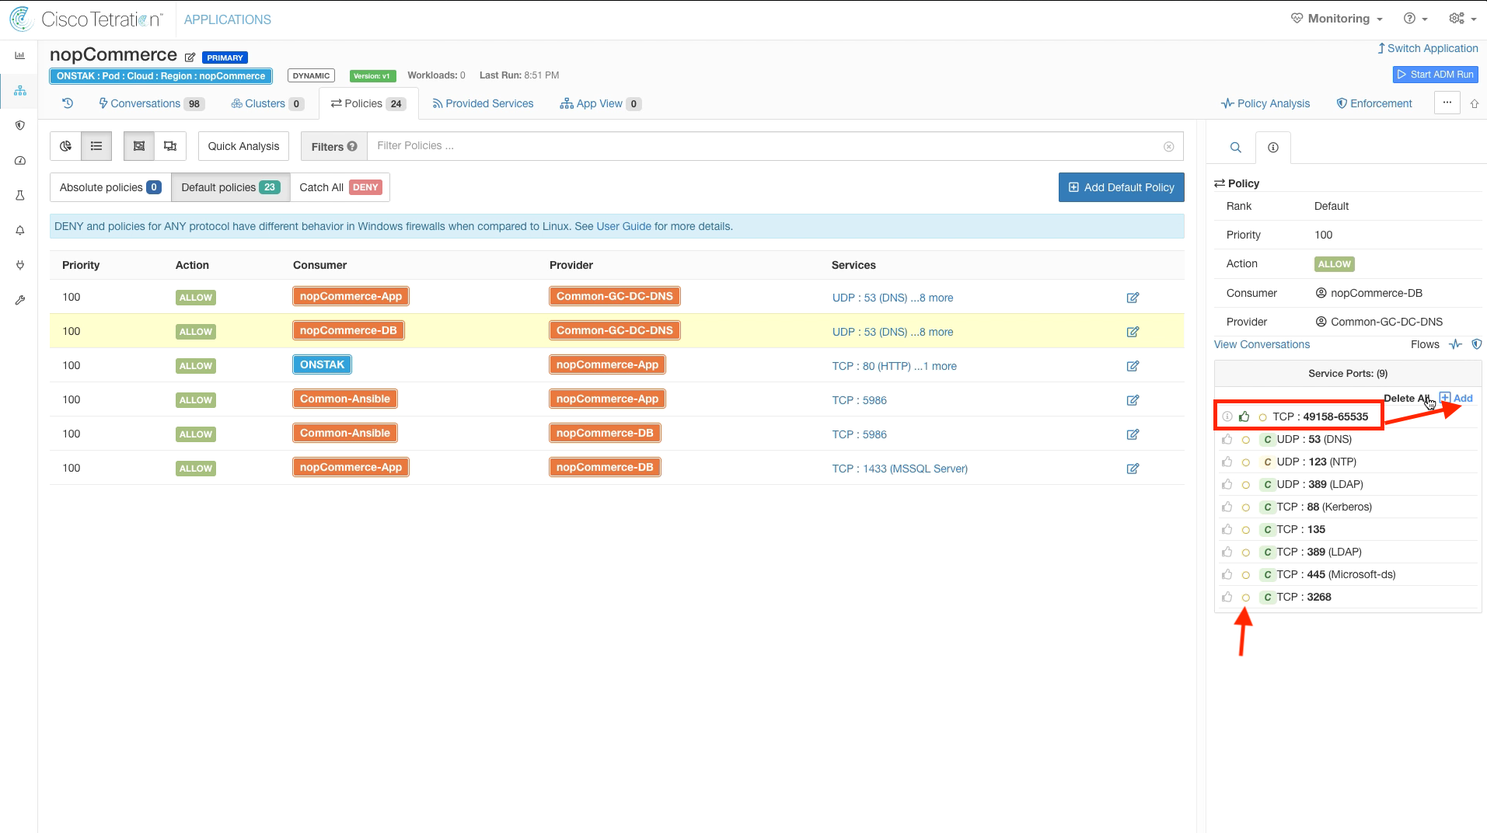
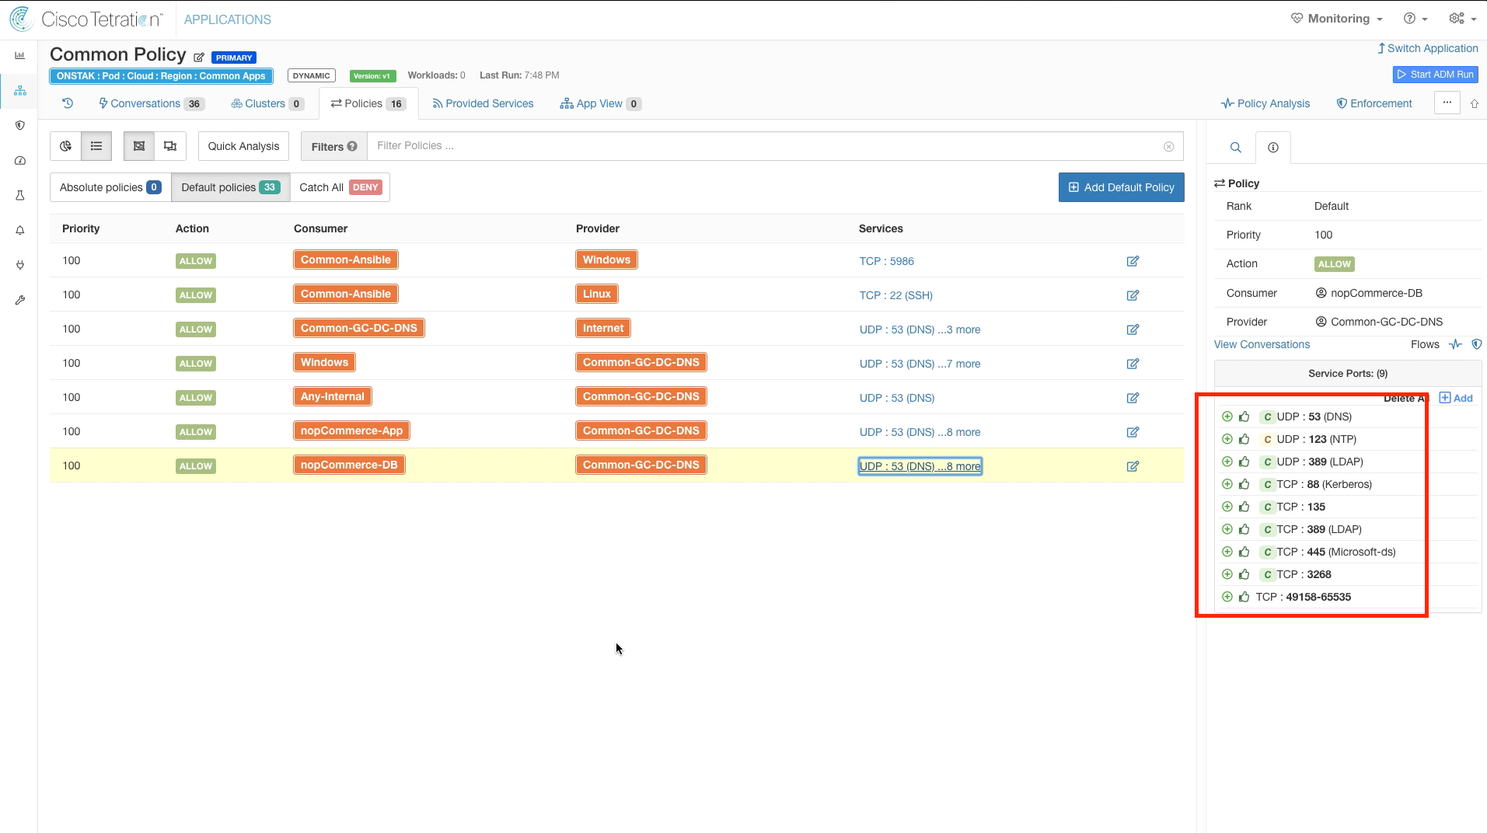
module 14 readme update

Changed region(s): [[0.0308, 0.2463, 0.9869, 0.7696], [0.0308, 0.0616, 0.185, 0.0924]]

diff --git a/labguide/module14/README.md b/labguide/module14/README.md
@@ -7,46 +7,47 @@
 
 
 ### Steps for this Module  
-<a href="#step-001" style="font-weight:bold">Step 001</a>  
-<a href="#step-002" style="font-weight:bold">Step 002</a>  
-<a href="#step-003" style="font-weight:bold">Step 003</a>  
-<a href="#step-004" style="font-weight:bold">Step 004</a>  
-<a href="#step-005" style="font-weight:bold">Step 005</a>  
-<a href="#step-006" style="font-weight:bold">Step 006</a>  
-<a href="#step-007" style="font-weight:bold">Step 007</a>  
-<a href="#step-008" style="font-weight:bold">Step 008</a>  
-<a href="#step-009" style="font-weight:bold">Step 009</a>  
-<a href="#step-010" style="font-weight:bold">Step 010</a>  
-<a href="#step-011" style="font-weight:bold">Step 011</a>  
-<a href="#step-012" style="font-weight:bold">Step 012</a>  
-<a href="#step-013" style="font-weight:bold">Step 013</a>  
-<a href="#step-014" style="font-weight:bold">Step 014</a>  
-<a href="#step-015" style="font-weight:bold">Step 015</a>  
-<a href="#step-016" style="font-weight:bold">Step 016</a>  
-<a href="#step-017" style="font-weight:bold">Step 017</a>  
-<a href="#step-018" style="font-weight:bold">Step 018</a>  
-<a href="#step-019" style="font-weight:bold">Step 019</a>  
-<a href="#step-020" style="font-weight:bold">Step 020</a>  
-<a href="#step-021" style="font-weight:bold">Step 021</a>  
-<a href="#step-022" style="font-weight:bold">Step 022</a>  
-<a href="#step-023" style="font-weight:bold">Step 023</a>  
-<a href="#step-024" style="font-weight:bold">Step 024</a>  
-<a href="#step-025" style="font-weight:bold">Step 025</a>  
-<a href="#step-026" style="font-weight:bold">Step 026</a>  
-<a href="#step-027" style="font-weight:bold">Step 027</a>  
-<a href="#step-028" style="font-weight:bold">Step 028</a>  
-<a href="#step-029" style="font-weight:bold">Step 029</a>  
-<a href="#step-030" style="font-weight:bold">Step 030</a>  
-<a href="#step-031" style="font-weight:bold">Step 031</a>  
-<a href="#step-032" style="font-weight:bold">Step 032</a>  
-<a href="#step-033" style="font-weight:bold">Step 033</a>  
-<a href="#step-034" style="font-weight:bold">Step 034</a>  
-<a href="#step-035" style="font-weight:bold">Step 035</a>  
-<a href="#step-036" style="font-weight:bold">Step 036</a>  
+<a href="#step-001" style="font-weight:bold">Step 001 - Navigate to Applications</a>  
+<a href="#step-002" style="font-weight:bold">Step 002 - Create a new Workspace</a>  
+<a href="#step-003" style="font-weight:bold">Step 003 - Assign Workspace to nopCommerce Scope</a>  
+<a href="#step-004" style="font-weight:bold">Step 004 - Begin ADM Run</a>  
+<a href="#step-005" style="font-weight:bold">Step 005 - Examine member workloads</a>  
+<a href="#step-006" style="font-weight:bold">Step 006 - Modify External Dependencies</a>  
+<a href="#step-007" style="font-weight:bold">Step 007 - Modify Cluster Granularity</a>  
+<a href="#step-008" style="font-weight:bold">Step 008 - Change ADM time range</a>  
+<a href="#step-009" style="font-weight:bold">Step 009 - View ADM results</a>  
+<a href="#step-010" style="font-weight:bold">Step 010 - Expand clusters </a>  
+<a href="#step-011" style="font-weight:bold">Step 011 - Edit SQLSERVER cluster </a>  
+<a href="#step-012" style="font-weight:bold">Step 012 - Modify cluster name and query</a>  
+<a href="#step-013" style="font-weight:bold">Step 013 - Edit WEBSERVER cluster</a>  
+<a href="#step-014" style="font-weight:bold">Step 014 - Modify cluster name and query</a>  
+<a href="#step-015" style="font-weight:bold">Step 015 - Promote App cluster to Inventory Filter</a>  
+<a href="#step-016" style="font-weight:bold">Step 016 - Select Promote Cluster</a>  
+<a href="#step-017" style="font-weight:bold">Step 017 - Promote DB cluster to Inventory filter</a>  
+<a href="#step-018" style="font-weight:bold">Step 018 - Select Promote Cluster</a>  
+<a href="#step-019" style="font-weight:bold">Step 019 - Delete services for nopCommerce-App to Root scope rule</a>  
+<a href="#step-020" style="font-weight:bold">Step 020 - Delete nopCommerce-App to Root scope rule</a>  
+<a href="#step-021" style="font-weight:bold">Step 021 - Delete services for nopCommerce-DB to Root scope rule</a>  
+<a href="#step-022" style="font-weight:bold">Step 022 - Delete nopCommerce-DB to Root scope rule</a>  
+<a href="#step-023" style="font-weight:bold">Step 023 - Delete individual ports in Win ephemeral port range</a>  
+<a href="#step-024" style="font-weight:bold">Step 024 - Add Windows ephemeral port range</a>  
+<a href="#step-025" style="font-weight:bold">Step 025 - Delete individual ports and add Windows ephemeral port range</a>  
+<a href="#step-026" style="font-weight:bold">Step 026 - Modify Root scope to nopCommerce App rule for TCP 80, 443</a>  
+<a href="#step-027" style="font-weight:bold">Step 027 - Change Root scope to Any</a>  
+<a href="#step-028" style="font-weight:bold">Step 028 - Select to Switch Application</a>  
+<a href="#step-029" style="font-weight:bold">Step 029 - Navigate to Common Policy</a>  
+<a href="#step-030" style="font-weight:bold">Step 030 - Click on Provided Services</a>  
+<a href="#step-031" style="font-weight:bold">Step 031 - View Policy Requests</a>  
+<a href="#step-032" style="font-weight:bold">Step 032 - Accept all Policy Requests</a>  
+<a href="#step-033" style="font-weight:bold">Step 033 - View Policies</a>  
+<a href="#step-034" style="font-weight:bold">Step 034 - View the rules and services created by accepting the Policy Requests</a>  
+<a href="#step-035" style="font-weight:bold">Step 035 - View the rules and services created by accepting the Policy Requests</a>  
 
 ---
 
 <div class="step" id="step-001"><a href="#step-001" style="font-weight:bold">Step 001</a></div>  
+
+Navigate to Applications.
 
 <a href="https://onstakinc.github.io/cisco-tetration-hol/labguide/module14/images/module14_001.png"><img src="https://onstakinc.github.io/cisco-tetration-hol/labguide/module14/images/module14_001.png" style="width:100%;height:100%;"></a>  
 
@@ -54,11 +55,15 @@
 
 <div class="step" id="step-002"><a href="#step-002" style="font-weight:bold">Step 002</a></div>  
 
+Create a new Application Workspace.
+
 <a href="https://onstakinc.github.io/cisco-tetration-hol/labguide/module14/images/module14_002.png"><img src="https://onstakinc.github.io/cisco-tetration-hol/labguide/module14/images/module14_002.png" style="width:100%;height:100%;"></a>  
 
 
 
 <div class="step" id="step-003"><a href="#step-003" style="font-weight:bold">Step 003</a></div>  
+
+Name the Application Workspace `nopCommerce` and set the Scope to nopCommerce.
 
 <a href="https://onstakinc.github.io/cisco-tetration-hol/labguide/module14/images/module14_003.png"><img src="https://onstakinc.github.io/cisco-tetration-hol/labguide/module14/images/module14_003.png" style="width:100%;height:100%;"></a>  
 
@@ -66,11 +71,15 @@
 
 <div class="step" id="step-004"><a href="#step-004" style="font-weight:bold">Step 004</a></div>  
 
+Select Start ADM Run.
+
 <a href="https://onstakinc.github.io/cisco-tetration-hol/labguide/module14/images/module14_004.png"><img src="https://onstakinc.github.io/cisco-tetration-hol/labguide/module14/images/module14_004.png" style="width:100%;height:100%;"></a>  
 
 
 
 <div class="step" id="step-005"><a href="#step-005" style="font-weight:bold">Step 005</a></div>  
+
+Click the Show button under Member workloads to display the associated machines.  The Microsoft IIS and SQL servers should be shown here.
 
 <a href="https://onstakinc.github.io/cisco-tetration-hol/labguide/module14/images/module14_005.png"><img src="https://onstakinc.github.io/cisco-tetration-hol/labguide/module14/images/module14_005.png" style="width:100%;height:100%;"></a>  
 
@@ -78,11 +87,17 @@
 
 <div class="step" id="step-006"><a href="#step-006" style="font-weight:bold">Step 006</a></div>  
 
+Expand External Dependencies and set the scopes for Common Apps and the Root scope to Fine.  
+
+>  The External Dependencies Coarse/Fine setting controls whether rules that include inventory that exists in other Scopes will be toward the Scope or toward clusters.  Since we have promoted the clusters in the Common Policy scope to Inventory Filters,  it makes sense to change this setting to Fine so any rules will be built toward the individual clusters rather than the entire scope.  Leaving the default setting of Coarse will create a more broad policy which would allow access to all workloads in the target Scope, regardless of the cluster grouping.  
+
 <a href="https://onstakinc.github.io/cisco-tetration-hol/labguide/module14/images/module14_006.png"><img src="https://onstakinc.github.io/cisco-tetration-hol/labguide/module14/images/module14_006.png" style="width:100%;height:100%;"></a>  
 
 
 
 <div class="step" id="step-007"><a href="#step-007" style="font-weight:bold">Step 007</a></div>  
+
+Expand Advanced Configurations and set the Cluster Granularity to Very Fine.  
 
 <a href="https://onstakinc.github.io/cisco-tetration-hol/labguide/module14/images/module14_007.png"><img src="https://onstakinc.github.io/cisco-tetration-hol/labguide/module14/images/module14_007.png" style="width:100%;height:100%;"></a>  
 
@@ -90,11 +105,16 @@
 
 <div class="step" id="step-008"><a href="#step-008" style="font-weight:bold">Step 008</a></div>  
 
+Change the time range for the ADM run to six hours,  and then submit the ADM run.
+
+
 <a href="https://onstakinc.github.io/cisco-tetration-hol/labguide/module14/images/module14_008.png"><img src="https://onstakinc.github.io/cisco-tetration-hol/labguide/module14/images/module14_008.png" style="width:100%;height:100%;"></a>  
 
 
 
 <div class="step" id="step-009"><a href="#step-009" style="font-weight:bold">Step 009</a></div>  
+
+Once the ADM run is complete,  select the ADM results available link.  
 
 <a href="https://onstakinc.github.io/cisco-tetration-hol/labguide/module14/images/module14_009.png"><img src="https://onstakinc.github.io/cisco-tetration-hol/labguide/module14/images/module14_009.png" style="width:100%;height:100%;"></a>  
 
@@ -102,11 +122,15 @@
 
 <div class="step" id="step-010"><a href="#step-010" style="font-weight:bold">Step 010</a></div>  
 
+Click to expand the SQLSERVER and WEBSERVER clusters.  The clusters should contain the MS SQL server IP and the IIS server IP addresses respectively.  
+
 <a href="https://onstakinc.github.io/cisco-tetration-hol/labguide/module14/images/module14_010.png"><img src="https://onstakinc.github.io/cisco-tetration-hol/labguide/module14/images/module14_010.png" style="width:100%;height:100%;"></a>  
 
 
 
 <div class="step" id="step-011"><a href="#step-011" style="font-weight:bold">Step 011</a></div>  
+
+Click on the SQLSERVER cluster and select the pencil icon to edit the cluster.  
 
 <a href="https://onstakinc.github.io/cisco-tetration-hol/labguide/module14/images/module14_011.png"><img src="https://onstakinc.github.io/cisco-tetration-hol/labguide/module14/images/module14_011.png" style="width:100%;height:100%;"></a>  
 
@@ -114,11 +138,15 @@
 
 <div class="step" id="step-012"><a href="#step-012" style="font-weight:bold">Step 012</a></div>  
 
+Enter the cluster name and query as shown in the below image.
+
 <a href="https://onstakinc.github.io/cisco-tetration-hol/labguide/module14/images/module14_012.png"><img src="https://onstakinc.github.io/cisco-tetration-hol/labguide/module14/images/module14_012.png" style="width:100%;height:100%;"></a>  
 
 
 
 <div class="step" id="step-013"><a href="#step-013" style="font-weight:bold">Step 013</a></div>  
+
+Click on the WEBSERVER cluster and select the pencil icon to edit the cluster.
 
 <a href="https://onstakinc.github.io/cisco-tetration-hol/labguide/module14/images/module14_013.png"><img src="https://onstakinc.github.io/cisco-tetration-hol/labguide/module14/images/module14_013.png" style="width:100%;height:100%;"></a>  
 
@@ -126,11 +154,15 @@
 
 <div class="step" id="step-014"><a href="#step-014" style="font-weight:bold">Step 014</a></div>  
 
+Enter the cluster name and query as shown in the below image.  
+
 <a href="https://onstakinc.github.io/cisco-tetration-hol/labguide/module14/images/module14_014.png"><img src="https://onstakinc.github.io/cisco-tetration-hol/labguide/module14/images/module14_014.png" style="width:100%;height:100%;"></a>  
 
 
 
 <div class="step" id="step-015"><a href="#step-015" style="font-weight:bold">Step 015</a></div>  
+
+Click the rocket ship icon to promote the nopCommerce-App cluster to an Inventory Filter.
 
 <a href="https://onstakinc.github.io/cisco-tetration-hol/labguide/module14/images/module14_015.png"><img src="https://onstakinc.github.io/cisco-tetration-hol/labguide/module14/images/module14_015.png" style="width:100%;height:100%;"></a>  
 
@@ -138,11 +170,15 @@
 
 <div class="step" id="step-016"><a href="#step-016" style="font-weight:bold">Step 016</a></div>  
 
+No changes are required here,  select Promote Cluster.
+
 <a href="https://onstakinc.github.io/cisco-tetration-hol/labguide/module14/images/module14_016.png"><img src="https://onstakinc.github.io/cisco-tetration-hol/labguide/module14/images/module14_016.png" style="width:100%;height:100%;"></a>  
 
 
 
 <div class="step" id="step-017"><a href="#step-017" style="font-weight:bold">Step 017</a></div>  
+
+Select the nopCommerce-DB cluster and promote it to an Inventory Filter.
 
 <a href="https://onstakinc.github.io/cisco-tetration-hol/labguide/module14/images/module14_017.png"><img src="https://onstakinc.github.io/cisco-tetration-hol/labguide/module14/images/module14_017.png" style="width:100%;height:100%;"></a>  
 
@@ -150,11 +186,17 @@
 
 <div class="step" id="step-018"><a href="#step-018" style="font-weight:bold">Step 018</a></div>  
 
+No changes are required here, click on Promote Cluster.
+
 <a href="https://onstakinc.github.io/cisco-tetration-hol/labguide/module14/images/module14_018.png"><img src="https://onstakinc.github.io/cisco-tetration-hol/labguide/module14/images/module14_018.png" style="width:100%;height:100%;"></a>  
 
 
 
 <div class="step" id="step-019"><a href="#step-019" style="font-weight:bold">Step 019</a></div>  
+
+We will now begin manually tuning the policies that were generated by the ADM run.  Click on the Policies tab.  We can delete the first two rules that are from nopCommerce-App and nopCommerce-DB to the Root Scope on TCP ports 80, 443, 123, and 138.  Recall that these rules are actually covered by our Global Services policies permitting outbound access to the Internet on these ports from Any-Internal.   
+
+Delete all services from the rule with nopCommerce-App as Consumer and the Root scope as Provider.
 
 <a href="https://onstakinc.github.io/cisco-tetration-hol/labguide/module14/images/module14_019.png"><img src="https://onstakinc.github.io/cisco-tetration-hol/labguide/module14/images/module14_019.png" style="width:100%;height:100%;"></a>  
 
@@ -162,11 +204,15 @@
 
 <div class="step" id="step-020"><a href="#step-020" style="font-weight:bold">Step 020</a></div>  
 
+Click to edit the rule and then click the trash can to delete it.  
+
 <a href="https://onstakinc.github.io/cisco-tetration-hol/labguide/module14/images/module14_020.png"><img src="https://onstakinc.github.io/cisco-tetration-hol/labguide/module14/images/module14_020.png" style="width:100%;height:100%;"></a>  
 
 
 
 <div class="step" id="step-021"><a href="#step-021" style="font-weight:bold">Step 021</a></div>  
+
+Delete all services from the rule with nopCommerce-DB as Consumer and the Root scope as Provider.  
 
 <a href="https://onstakinc.github.io/cisco-tetration-hol/labguide/module14/images/module14_021.png"><img src="https://onstakinc.github.io/cisco-tetration-hol/labguide/module14/images/module14_021.png" style="width:100%;height:100%;"></a>  
 
@@ -174,11 +220,17 @@
 
 <div class="step" id="step-022"><a href="#step-022" style="font-weight:bold">Step 022</a></div>  
 
+Click to edit the rule, and then click the trash can to delete the rule.
+
 <a href="https://onstakinc.github.io/cisco-tetration-hol/labguide/module14/images/module14_022.png"><img src="https://onstakinc.github.io/cisco-tetration-hol/labguide/module14/images/module14_022.png" style="width:100%;height:100%;"></a>  
 
 
 
 <div class="step" id="step-023"><a href="#step-023" style="font-weight:bold">Step 023</a></div>  
+
+On the policy rule with nopCommerce-App as Consumer and Common-GC-DC-DNS,  the ADM run has discovered communication on a few of the ports in the Windows ephemeral port range 49158-65535.  Since Windows may open up communication on any ports in this range, we should delete the individual ports and enter the entire range in our rules.  
+
+Click to delete the TCP ports within the 49158-65535 range.  The ports discovered in your ADM run may be different from the image, as Windows may have opened up different ports for the workloads in your student environment.  
 
 <a href="https://onstakinc.github.io/cisco-tetration-hol/labguide/module14/images/module14_023.png"><img src="https://onstakinc.github.io/cisco-tetration-hol/labguide/module14/images/module14_023.png" style="width:100%;height:100%;"></a>  
 
@@ -186,11 +238,17 @@
 
 <div class="step" id="step-024"><a href="#step-024" style="font-weight:bold">Step 024</a></div>  
 
+Add the Windows ephemeral port range 49158-65535 to the Service Ports.  
+
 <a href="https://onstakinc.github.io/cisco-tetration-hol/labguide/module14/images/module14_024.png"><img src="https://onstakinc.github.io/cisco-tetration-hol/labguide/module14/images/module14_024.png" style="width:100%;height:100%;"></a>  
 
 
 
 <div class="step" id="step-025"><a href="#step-025" style="font-weight:bold">Step 025</a></div>  
+
+We must repeat the same tasks for the rule with nopCommerce-DB as Consumer and Common-GC-DC-DNS as the provider.  Delete the individual ports within the Windows ephemeral range 49158-65535,  and then add the range 49158-65535 to the Service Ports.  
+
+> Notice the orange circle next to the all of the Service Ports.  This means that there are outstanding Policy Requests that have been issued to another workspace.  If you click on the orange circle, it will tell you to which workspace the outgoing Policy Requests are pending. Whenever communication is required between workloads that are members of clusters in different workspaces,  there must be matching rules in both workspaces in order for the rules to take affect.  In this case we have configured rules in the nopCommerce workspace from nopCommerce-App and nopCommerce-DB to the Common-GC-DC-DNS cluster in the Common Policy workspace,  but there are not yet matching rules in the Common Policy workspace.  A Policy Request is sent by the nopCommerce workspace to the Common Policy workspace to create the rules in the Common Policy workspace. An administrator must review and approve the Policy Requests, as we will see in just a moment.
 
 <a href="https://onstakinc.github.io/cisco-tetration-hol/labguide/module14/images/module14_025.png"><img src="https://onstakinc.github.io/cisco-tetration-hol/labguide/module14/images/module14_025.png" style="width:100%;height:100%;"></a>  
 
@@ -198,11 +256,15 @@
 
 <div class="step" id="step-026"><a href="#step-026" style="font-weight:bold">Step 026</a></div>  
 
+Edit the rule where the Root scope is a Consumer to nopCommerce-App as Provider for TCP ports 80 and 443.  This is to allow inbound access to the web application both internally and externally,  thus we will set the Consumer to Any.  Change the Consumer from the root scope to Any.  
+
 <a href="https://onstakinc.github.io/cisco-tetration-hol/labguide/module14/images/module14_026.png"><img src="https://onstakinc.github.io/cisco-tetration-hol/labguide/module14/images/module14_026.png" style="width:100%;height:100%;"></a>  
 
 
 
 <div class="step" id="step-027"><a href="#step-027" style="font-weight:bold">Step 027</a></div>  
+
+The Consumer should now be set to Any as shown below.   
 
 <a href="https://onstakinc.github.io/cisco-tetration-hol/labguide/module14/images/module14_027.png"><img src="https://onstakinc.github.io/cisco-tetration-hol/labguide/module14/images/module14_027.png" style="width:100%;height:100%;"></a>  
 
@@ -210,11 +272,19 @@
 
 <div class="step" id="step-028"><a href="#step-028" style="font-weight:bold">Step 028</a></div>  
 
+Now we will address the outgoing Policy Requests for this application workspace to the Common Policy workspace.  When the rules were created by ADM toward the Common-GC-DC-DNS Inventory Filter which is tied to the Common Policy scope,  Policy Requests were sent to the Common Policy workspace to create matching rules within the Common Policy workspace. The outgoing Policy Requests are indicated by the orange circle next to the ports in the list of Services for the rules. Matching rules in the Common Policy workspace are required in order to allow the intended communication.
+
+Click on Switch Application.  
+
+
+
 <a href="https://onstakinc.github.io/cisco-tetration-hol/labguide/module14/images/module14_028.png"><img src="https://onstakinc.github.io/cisco-tetration-hol/labguide/module14/images/module14_028.png" style="width:100%;height:100%;"></a>  
 
 
 
 <div class="step" id="step-029"><a href="#step-029" style="font-weight:bold">Step 029</a></div>  
+
+Select the Common Policy App Workspace.
 
 <a href="https://onstakinc.github.io/cisco-tetration-hol/labguide/module14/images/module14_029.png"><img src="https://onstakinc.github.io/cisco-tetration-hol/labguide/module14/images/module14_029.png" style="width:100%;height:100%;"></a>  
 
@@ -222,11 +292,15 @@
 
 <div class="step" id="step-030"><a href="#step-030" style="font-weight:bold">Step 030</a></div>  
 
+Click on Provided Services.  
+
 <a href="https://onstakinc.github.io/cisco-tetration-hol/labguide/module14/images/module14_030.png"><img src="https://onstakinc.github.io/cisco-tetration-hol/labguide/module14/images/module14_030.png" style="width:100%;height:100%;"></a>  
 
 
 
 <div class="step" id="step-031"><a href="#step-031" style="font-weight:bold">Step 031</a></div>  
+
+Notice that we have 18 incoming Policy Requests that are in Pending state.  The administrator of this workspace must accept the requests to allow the policies to be created in the Common Policy workspace to complete the configuration.  It is also possible to set up Auto-Pilot rules so that incoming Policy Requests for specific TCP/UDP ports are automatically accepted.
 
 <a href="https://onstakinc.github.io/cisco-tetration-hol/labguide/module14/images/module14_031.png"><img src="https://onstakinc.github.io/cisco-tetration-hol/labguide/module14/images/module14_031.png" style="width:100%;height:100%;"></a>  
 
@@ -234,11 +308,15 @@
 
 <div class="step" id="step-032"><a href="#step-032" style="font-weight:bold">Step 032</a></div>  
 
+Click Accept on each of the 18 Policy Requests.  
+
 <a href="https://onstakinc.github.io/cisco-tetration-hol/labguide/module14/images/module14_032.png"><img src="https://onstakinc.github.io/cisco-tetration-hol/labguide/module14/images/module14_032.png" style="width:100%;height:100%;"></a>  
 
 
 
 <div class="step" id="step-033"><a href="#step-033" style="font-weight:bold">Step 033</a></div>  
+
+Click on Policies to view the policies in the Common Policy workspace.
 
 <a href="https://onstakinc.github.io/cisco-tetration-hol/labguide/module14/images/module14_033.png"><img src="https://onstakinc.github.io/cisco-tetration-hol/labguide/module14/images/module14_033.png" style="width:100%;height:100%;"></a>  
 
@@ -246,22 +324,27 @@
 
 <div class="step" id="step-034"><a href="#step-034" style="font-weight:bold">Step 034</a></div>  
 
+There are now two new rules that have been created,  one from nopCommerce-App to Common-GC-DC-DNS each with 9 services as shown in the below image.
+
 <a href="https://onstakinc.github.io/cisco-tetration-hol/labguide/module14/images/module14_034.png"><img src="https://onstakinc.github.io/cisco-tetration-hol/labguide/module14/images/module14_034.png" style="width:100%;height:100%;"></a>  
 
 
 
 <div class="step" id="step-035"><a href="#step-035" style="font-weight:bold">Step 035</a></div>  
 
-<a href="https://onstakinc.github.io/cisco-tetration-hol/labguide/module14/images/module14_035.png"><img src="https://onstakinc.github.io/cisco-tetration-hol/labguide/module14/images/module14_035.png" style="width:100%;height:100%;"></a>  
+ Below shows the services in the second rule from nopCommerce-DB to Common-GC-DC-DNS.  Notice that the services all show a thumbs up and are colored green,  this indicates that they have been approved by an administrator.  
 
+<a href="https://onstakinc.github.io/cisco-tetration-hol/labguide/module14/images/module14_035.png"><img src="https://onstakinc.github.io/cisco-tetration-hol/labguide/module14/images/module14_035.png" style="width:100%;height:100%;"></a>  
 
 
 <div class="step" id="step-036"><a href="#step-036" style="font-weight:bold">Step 036</a></div>  
 
+Switch Application and go back to the nopCommerce Application Workspace.  Select the rule from nopCommerce-App to Common-GC-DC-DNS and select Services.  Notice that the orange circles next to each service have now disappeared.
+
 <a href="https://onstakinc.github.io/cisco-tetration-hol/labguide/module14/images/module14_036.png"><img src="https://onstakinc.github.io/cisco-tetration-hol/labguide/module14/images/module14_036.png" style="width:100%;height:100%;"></a>  
 
+> The above exercise was intended to demonstrate Provided Services and Policy Requests. In a real world scenario where there could be hundreds or possibly even thousands of workspaces in an organization, the strategy shown of creating specific rules from each workspace to the Common Policy workspace would not be desirable. Instead, we would recommend creating more broad rules in the Common Policy workspace to cover all workspaces accessing common services.  For example, in our Common Policy we could have collapsed the rules allowing nopCommerce-App and nopCommerce-DB to Common-GC-DC-DNS to a single more broad rule such as Windows to Common-GC-DC-DNS.  This would keep the size of the Common Policy ruleset more manageable.  
 
-
-
+YOU HAVE COMPLETED THIS MODULE
 
 | [Return to Table of Contents](https://onstakinc.github.io/cisco-tetration-hol/labguide/) | [Go to Top of the Page](https://onstakinc.github.io/cisco-tetration-hol/labguide/module14/) | [Continue to the Next Module](https://onstakinc.github.io/cisco-tetration-hol/labguide/module15/) |
